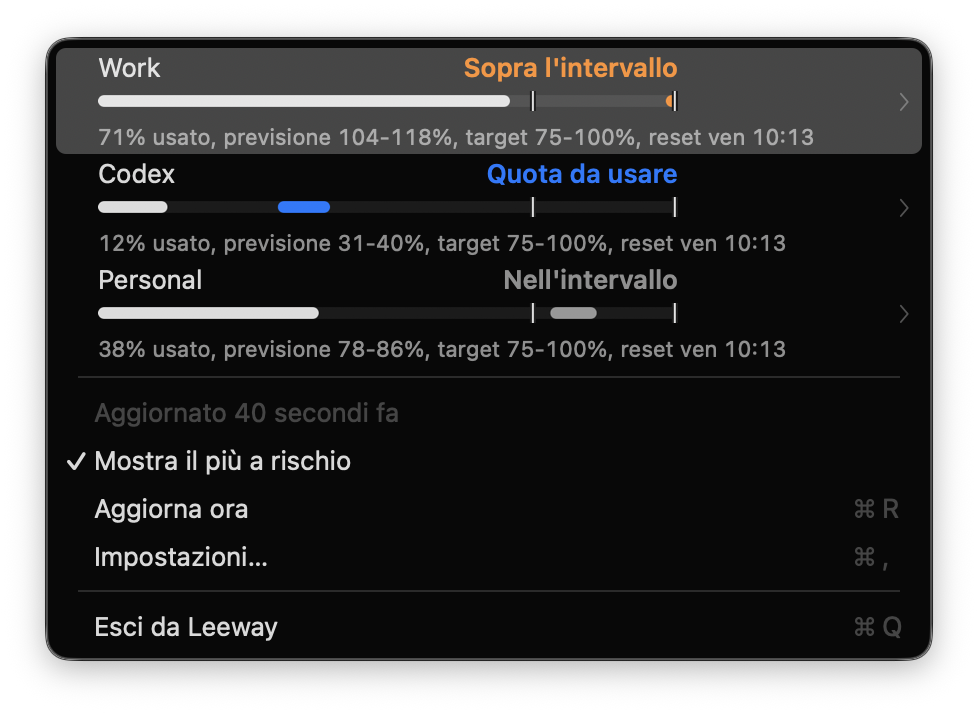
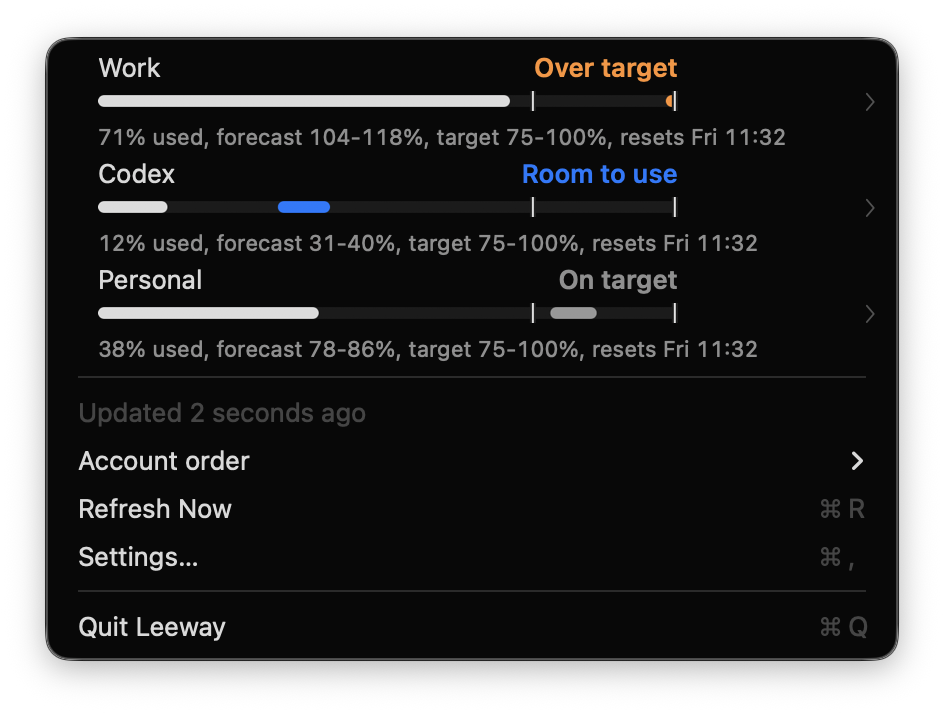
fix: prepare unpublished 0.1.1 build 3 with unified account order
Use the version explicitly requested by the owner, replacing the unpublished 0.1.2 metadata. Update the revised spec, design and preview, and record the native regressions and owner physical-check checklist. No published release or tag is changed.

Changed region(s): [[0.0307, 0.0616, 0.9523, 0.9244], [0.8602, 0.8627, 0.9216, 0.8936], [0.9216, 0.8936, 0.9523, 0.9244]]

diff --git a/docs/design.md b/docs/design.md
@@ -36,7 +36,7 @@ Compact is the default: a 16 pt Phosphor bold vector template icon, with no text
 |-|-|-|
 | Height available | 24 pt | [A1] |
 | Content | `name used% → forecast%`, for example `Work 62% → 84%` | spec 6, [R8] |
-| Account shown | The pinned account, else the most at risk (ranking: red over, amber over, under, on target; ties by higher forecast) | spec 6 |
+| Account shown | The first enabled account in the shared Account order, even without a reading. Risk-first ranking: red over, amber over, under, on target; ties by higher forecast | spec 6 |
 | Forecast shown | The higher of the two projections | title only; verdict compares both bounds |
 | Font | System menu bar font, 13 pt regular, tabular figures | [A3] |
 | Name length | Up to 14 characters, then tail truncation with an ellipsis. Account names are free text, so the title never grows unbounded | [A1] (menus can be truncated when space is tight) |
@@ -49,10 +49,10 @@ The title width must not jitter on refresh: tabular figures keep `62%` and `71%`
 
 ### Structure, top to bottom
 
-1. One row per enabled account, most at risk first, then alphabetical.
+1. One row per enabled account in the shared Account order: risk-first or Manual.
 2. Separator.
 3. Muted disabled line: `Updated 2 min ago` (relative, localised). Shows the age of the newest successful reading across accounts. [R1] [R2]
-4. `Show Most at Risk` with a checkmark while in automatic mode.
+4. `Account order` submenu with the two checked choices `Most at risk first` and `Manual`, synchronized with Settings.
 5. `Refresh Now` with Command-R.
 6. `Settings…` with Command-comma.
 7. Separator.
@@ -65,7 +65,7 @@ Labels use title-style capitalisation, verb first, ellipsis only where more inpu
 | Property | Value | Reference |
 |-|-|-|
 | Menu width | 340 pt minimum; native AppKit sizing accommodates localized facts without truncating the reset | [A2] |
-| Row content inset | AppKit-owned. Detail leading padding is obtained from the native pin item cell titleRect, so it follows the current OS instead of a copied value | [A2] |
+| Row content inset | AppKit-owned account measurements. The hosted detail uses 16 pt leading and 14 pt trailing padding, with no selection-state inset | [A2] |
 | Account row height | Native attributed title height, with an inline usage and forecast meter and a muted reset line below | [M2] [M3] |
 | Standard item height | AppKit-owned standard menu item height | [A2] |
 | Selection highlight | Account rows use semantic non-emphasized selection grey, retaining text and meter colours. Standard commands retain native accent selection | Owner revision 2026-11-03 |
@@ -98,9 +98,9 @@ Hover starts only when the pointer is inside the row. Click, Return or Right Arr
 
 ### Chart submenu
 
-Opened by native menu tracking, click, Return or Right Arrow as an NSMenu submenu beside the account row. Escape returns to the parent menu. The chart and facts are a hosted custom item; Show in Menu Bar is a standard NSMenuItem with the native checkmark and text inset. [A5]
+Opened by native menu tracking, click, Return or Right Arrow as an NSMenu submenu beside the account row. Escape returns to the parent menu. The chart and facts are the only hosted custom item. There is no account-selection command in the detail. [A5]
 
-Width 340 pt. The content leading inset is measured from the native pin command with NSMenuItemCell.titleRect. Content, top to bottom:
+Width 340 pt, leading padding 16 pt and trailing padding 14 pt. Content, top to bottom:
 
 1. **Usage and headline**, a large used percentage followed by a Callout forecast range and the localized weekly period. The headline reads: `Lands between 84% and 97% on Tue 5:00 AM`. Descriptive text above a chart, in the manner of a prediction sentence. [R8] [A5]
 2. **Chart**, native plot with a 170 pt inspection area (below).
@@ -117,7 +117,6 @@ Width 340 pt. The content leading inset is measured from the native pin command 
    Rows with unknown values are omitted, including five-hour usage and recent pace before a qualifying six-hour history. The obsolete Inspect Readings hint and submenu are absent.
 
    This follows the label-left, value-right rows of [R3] and the "x% used, resets" phrasing of [R1] and [R2].
-4. Separator, then `Show in Menu Bar` with a checkmark when this account is pinned. [A2]
 
 ### Chart
 
@@ -159,7 +158,7 @@ Each state is one concrete treatment, not a spinner.
 | **Loading, refresh** | Unchanged | Rows unchanged, the age line reads `Updating`. Refresh Now dimmed. No row flicker |
 | **Stale** (latest reading failed, last good kept) | Unchanged, computed from the last good reading | Status word unchanged. Reset remains in the right column. Only readings older than twice the polling interval gain a compact amber age after the usage numbers, with a full VoiceOver reading-age label. A failed attempt alone does not add age. Menu timestamps update every 30 seconds while open. |
 | **Error, no reading yet** | Symbol only | Status word `No reading`. Facts line carries the reason, one of: `Claude CLI not found`, `Not signed in, run claude to sign in`, `Timed out`, `Unexpected output` |
-| **No accounts** | Symbol only | A single dimmed item `No accounts found`, a muted second line `Sign in with Claude Code or Codex, then choose Refresh Now`, then `Settings…` and `Quit Leeway`. The Refresh Now and Show Most at Risk items stay visible and dimmed [A1] |
+| **No accounts** | Symbol only | A single dimmed item `No accounts found`, a muted second line `Sign in with Claude Code or Codex, then choose Refresh Now`, then `Settings…` and `Quit Leeway`. Refresh Now stays visible and dimmed; Account order remains available [A1] |
 | **All accounts disabled** | Symbol only | Same as No accounts, second line `All accounts are turned off in Settings` |
 
 Enabling an account starts a refresh immediately. If another read is in flight, a follow-up read includes the newly enabled account. When a reading supplies a reason, display it. The current core otherwise reports only staleness, so use the localized instruction to check CLI sign-in and choose Refresh Now. A first reading in progress shows only native Reading usage text, with no sign-in hint. Leeway never logs in for the user.
@@ -179,16 +178,19 @@ The standard macOS Settings window, opened with Command-comma, toolbar tab style
 
 ### Accounts tab
 
-Two separate pickers lead the pane. Menu bar account chooses Most at risk or a
-pinned account, using the same AppPreferences.pinnedID and model.pin action as
-the menu. Changes update both immediately. Menu row order chooses Manual or
-Most at risk first (default), independently of the status-item account.
+One Account order picker leads the pane: Most at risk first (default) or Manual.
+It reads and writes AppPreferences.accountOrderMode, shared with the menu's
+Account order submenu. The status item shows the first enabled account in this
+same order. The owner replaced the previous separate pin/order model on
+2026-11-03. A legacy pin becomes the first Manual ID; the old field is decode-only
+and is never written again. Existing Manual order without a pin is preserved.
 A native SwiftUI List below it shows the current names and supports native
-drag and drop through onMove in Manual mode. The setting and stable account IDs
+drag and drop through onMove in Manual mode. An initially empty, UI-only
+selection binding enables native row selection and drag initiation on macOS. The setting and stable account IDs
 are stored in presentation preferences. Failed saves restore the previous order.
 Unavailable IDs retain their saved positions, and newly discovered accounts
 append. Existing grouped account controls follow the same order below the list.
-This ordering is independent of Show Most at Risk and account pinning in the menu bar.
+There is no separate status-account picker or detail pin command.
 
 One settings group per discovered account (two directories that are the same account appear once, spec 1). The Form scrolls within the native window.
 
@@ -271,7 +273,6 @@ Every status is spoken as words, numbers as numbers, never colour names.
 | Error row | `Work, no reading` | Value: the reason in full, for example `Claude CLI not found` |
 | Age line | `Last updated` | Value: `2 minutes ago` |
 | Chart | `Weekly usage for Work` | Value: the headline sentence. Provides an audio graph descriptor with series Used, Forecast week pace, Forecast last 24 hours, and Target low and Target high as reference lines [A5] [A6] |
-| Show in Menu Bar | `Show in Menu Bar` | Value: `On` or `Off` |
 | Settings name field | `Account name` | Value: the name |
 | Settings target handles | `Target low` / `Target high` | Independently adjustable values in percent; Tab visits low then high, arrow keys step by 5 |
 | Settings reserve | `Reserve account for Work` | Value: `None` or the account name |
@@ -289,7 +290,9 @@ Strings exist in English and Italian. The layout must survive Italian lengths. S
 | On target | Nell'intervallo |
 | Over target | Sopra l'intervallo |
 | Refresh Now | Aggiorna ora |
-| Show Most at Risk | Mostra il più a rischio |
+| Account order | Ordine degli account |
+| Most at risk first | Il più a rischio prima |
+| Manual | Manuale |
 | 62% now, 70-84% at reset, target 75-100% | 62% ora, 70-84% al reset, target 75-100% |
 | Resets Tue 5:00 AM | Reset mar 05:00 |
 | Account name | Nome account |
@@ -302,7 +305,7 @@ Times and dates come from the locale, never from string templates. Percent sign 
 2. **Early blocking.** Over is amber up to 12 hours between exhaustion and reset, red above 12. Without an exhaustion prediction it stays amber, with unknown early hours. Measured weekly usage at 95 does not override the interval verdict; five-hour blocking belongs to advisor policy.
 3. **Native menu drawing.** NSMenuItem attributed titles support multiline text and a meter attachment. AccountMenuRow measures the content with NSMenuItemCell, draws the attributed title and uses a neutral selection background, an explicit owner revision on 2026-11-03. NSMenu retains tracking, type selection, keyboard navigation and submenu placement. Commands use ordinary NSMenuItem drawing. Offscreen tests cover multiline sizing, semantic colours and target tick visibility.
 4. **Hiding the extra.** The HIG asks that people, not the app, decide whether the extra is shown, and suggests a second entry point such as a Dock menu. The spec has no "show in menu bar" setting. Worth deciding before release. [A1]
-5. **Apple menu measurements.** AppKit owns standard command selection geometry. The detail reads its leading inset from the native pin command cell on the current OS; an offscreen probe on this host returned 26 pt. No inferred macOS 14 selection radius or inset is hardcoded.
+5. **Apple menu measurements.** AppKit owns standard command selection geometry. Account rows use native cell measurements, while the chart detail has a single stable content inset with no pin-state column.
 
 ## References
 
@@ -344,7 +347,7 @@ Mobbin (web and iOS, used for information patterns only):
 
 ## Native component exceptions and remaining runtime checks
 
-The domain-specific Swift Charts view and its textual facts are hosted custom content. Apple supplies the marks, axes, cursor rule and audio graph; there is no standard NSMenu item that represents a weekly quota forecast. NSHostingView embeds this content in the native submenu. Its leading inset matches the native pin command. The chart supports VoiceOver adjustment and its native audio graph.
+The domain-specific Swift Charts view and its textual facts are hosted custom content. Apple supplies the marks, axes, cursor rule and audio graph; there is no standard NSMenu item that represents a weekly quota forecast. NSHostingView embeds this content in the native submenu. Its leading inset is stable because the detail has no native command or state column. The chart supports VoiceOver adjustment and its native audio graph.
 
 AppKit owns the status item and standard Settings window because the required native NSMenu hierarchy must coexist with hosted Charts content. SwiftUI grouped Forms and LabeledContent own Settings rows; the native Settings window rejects automatic responder changes until the first user click or key event, and resets its native scroll containers to the top whenever opened. Offscreen tests cover both rules. The only owner-requested custom Settings control is the Target range described below.
 
@@ -392,7 +395,8 @@ attachment directly, with a system chevron symbol for the submenu. A rounded neu
 unemphasizedSelectedContentBackgroundColor blended 12% toward labelColor, with a
 5 pt inset and corner radius. A native tracking area updates drawing on pointer
 entry and exit; it never intercepts clicks or replaces native submenu tracking.
-The view does not intercept clicks; NSMenu owns pointer and keyboard tracking,
+The row participates in native hit testing so pointer events reach its tracking
+area; NSMenu owns command dispatch, keyboard tracking,
 submenus and the menu item's accessibility. Caption, verdict and meter colours
 remain unchanged. Refresh Now, Settings and Quit have no custom view.
 

diff --git a/docs/spec.md b/docs/spec.md
@@ -19,8 +19,8 @@ Developers who run Claude Code and Codex, often several accounts on one Mac (per
 3. **Polling.** Interval configurable (5, 10, 15, 30 minutes; default 15). "Refresh now" in the menu (Cmd-R). A failed reading keeps the last good one and marks it stale with its age. Enabling an account immediately requests a fresh reading, including when another refresh is in progress. Account rows and detail show the safe typed reason for a failed source read.
 4. **Forecast.** Two projections of the weekly percentage at the reset: the week's average pace and the last 24 hours' pace, both carried to the reset, never below what is already used. Shown as a range. History kept locally (SQLite in Application Support) for the chart.
 5. **Target range.** Per-account `target_low` and `target_high` in percent, default 75 and 100. Both lie in 0 to 100, with low < high. The goal is to use the whole week without running out before reset: finishing low wastes quota, forecasting exhaustion early risks being blocked. Compare the reset forecast range with the inclusive target: **under** when forecast high < target low, **on_target** when the ranges overlap, **over** when forecast low > target high. For over, report hours between forecast exhaustion and reset: amber at or below 12 hours, red above 12. Missing forecasts stay explicitly unknown with a neutral verdict.
-6. **Menu bar.** Compact by default, with vector template Phosphor trend-down (under), target (on target), or trend-up (over). Every verdict uses an untinted template, allowing macOS to supply the menu bar foreground. The verdict changes the glyph only. Keep the Compact / Percentages option. Pin an account or show the most at risk. Each menu row states its verdict in words, followed by `62% now, 70-84% at reset, target 75-100%` and the reset time. Account rows highlight in neutral silver/grey in light and dark appearances, preserving readable meter, verdict and caption colours. Native keyboard, submenu and VoiceOver behaviour remain; plain command highlights are unchanged. Every row meter uses the same 0-100% scale with used fill, forecast clipped at 100%, and two outlined ticks at the configured target bounds above the fills. There is no target band or overflow extension. This replaces the previous scaling requirement at the owner's request on 2026-11-03. Native submenu detail contains the weekly chart, forecast range and target bounds; unavailable facts are omitted.
-7. **Settings window.** Accounts (name, enabled, Target range, reserve account for steering, account order), polling interval, language (System default, English, Italiano), launch at login, updates (automatic checks and Check Now). Target uses a two-handle range control, steps of 5 and minimum gap 5, keyboard and VoiceOver accessible. This is the owner-requested native-only control exception. The Settings Menu bar account picker and the menu share AppPreferences.pinnedID: nil means most at risk, otherwise the account is pinned, and changes update both immediately. The separate Menu row order setting is either manual, using native List drag and drop, or Most at risk first (the existing default). Manual order persists across refresh and relaunch; new accounts append. Ordering does not change the existing Show Most at Risk status-item choice. The window starts at 560 by 500 pt, with a 520 by 440 minimum, keeps its user-chosen size across tabs, and scrolls long tab content internally. Return commits an account name and resigns focus; Escape restores the saved name and resigns focus.
+6. **Menu bar.** Compact by default, with vector template Phosphor trend-down (under), target (on target), or trend-up (over). Every verdict uses an untinted template, allowing macOS to supply the menu bar foreground. The verdict changes the glyph only. Keep the Compact / Percentages option. The status item always shows the first enabled account in the shared account order, including a first account without a reading. Each menu row states its verdict in words, followed by `62% now, 70-84% at reset, target 75-100%` and the reset time. Account rows highlight in neutral silver/grey in light and dark appearances, preserving readable meter, verdict and caption colours. Native keyboard, submenu and VoiceOver behaviour remain; plain command highlights are unchanged. Every row meter uses the same 0-100% scale with used fill, forecast clipped at 100%, and two outlined ticks at the configured target bounds above the fills. There is no target band or overflow extension. This replaces the previous scaling requirement at the owner's request on 2026-11-03. Native submenu detail contains the weekly chart, forecast range and target bounds; unavailable facts are omitted.
+7. **Settings window.** Accounts (name, enabled, Target range, reserve account for steering, account order), polling interval, language (System default, English, Italiano), launch at login, updates (automatic checks and Check Now). Target uses a two-handle range control, steps of 5 and minimum gap 5, keyboard and VoiceOver accessible. This is the owner-requested native-only control exception. One Account order setting is shared by Settings and the menu: Most at risk first sorts every account by risk, while Manual uses native List drag and drop. The status item shows the first enabled account in that same order. Changes synchronize immediately. Manual order persists across refresh and relaunch; new accounts append. There is no separate pin setting or detail action. A legacy pinned account silently migrates to the first position of Manual order, preserving the remaining saved order. The window starts at 560 by 500 pt, with a 520 by 440 minimum, keeps its user-chosen size across tabs, and scrolls long tab content internally. Return commits an account name and resigns focus; Escape restores the saved name and resigns focus.
 8. **Agent interface.** CLI `leeway status --json` and `leeway headroom --account <name>`; local HTTP on 127.0.0.1 only (`GET /v1/status`, `POST /v1/advise`), documented JSON schema, versioned. Status and refresh use schema 3. Advice uses schema 1 with nullable `headroom_pct` for under-target accounts.
 9. **Steering, opt-in.** `integrations/` ships ready hooks for Claude Code (PreToolUse on the Agent tool rewrites the subagent model through `updatedInput` or denies; SessionStart injects advice; UserPromptSubmit blocks prompts whose verdict is deny) and Codex (checks `codex exec -m` calls), installed by `leeway integrations install` and removed by `uninstall`. Rules live in `~/.config/leeway/policy.toml`: target ranges, reserve account, model per role, and `over_target` action (warn, switch, block). Under and on-target accounts allow work; under advice reports percentage points needed to reach target low at the current pace. Five-hour blocking remains independent. Advisor down: allow and warn. Only agents with the integration installed are steered.
 10. **Updates.** Sparkle 2, signed appcast on GitHub Releases, automatic by default. Homebrew cask in a Homebrew tap.

diff --git a/docs/plans/2026-11-03-unified-account-order.md b/docs/plans/2026-11-03-unified-account-order.md
@@ -1,0 +1,35 @@
+# Unified account order implementation plan
+
+Source: owner revision, 2026-11-03.
+
+**Goal:** One Account order setting controls every account row and the status item's first visible account.
+**Architecture:** Reuse AppPreferences.accountOrderMode and manualAccountOrder. Remove active pin state, the separate status picker, detail pin action and obsolete inset logic. Both Settings and a native Account order submenu call the same model action.
+**Spec:** docs/spec.md and docs/design.md, revised by this owner request.
+
+## Migration and recovery
+
+A legacy pinned account becomes the first ID in Manual order, preserving the remaining saved order. An existing Manual order without a pin stays Manual; automatic or unset preferences stay risk-first. Encode only the current preference fields. Disabled accounts remain configurable in Settings and omitted from the menu; the status item follows the first menu row, including a row without a reading. Failed saves restore the previous order through the existing save path.
+
+## Tasks
+
+- [x] Replace tests for the superseded independent status selection with failing tests for one shared order, first-row status selection, no-reading first row and enabled-account filtering.
+- [x] Add red/green legacy migration and encode-without-pin tests. Remove pin state/actions, detail command and orphaned inset code; simplify the selection to first enabled account.
+- [x] Replace the separate Settings picker and menu command with the same Account order setting and two checked native submenu choices. Test synchronization in both directions and absence of detail actions.
+- [x] Remove obsolete localized strings, update spec/design/changelog, set app version 0.1.1 build 3 as explicitly requested for the unpublished release.
+- [x] Run core, App and integration suites; build signed Release, quit the old PID, open without mock, capture real menu and Settings in light/dark, restore appearance and leave the real app running.
+- [x] Reproduce the owner-confirmed hover and drag defects using native hit testing and the hosted NSOutlineView selection delegate. Remove the nil hit test and add native List selection, then run regression tests. Owner will perform the final physical check from a 10-second checklist.
+- [x] Final independent review and signed focused commits. No push.
+
+
+## Verification
+
+App: 140 passed. Core: 111 passed on rerun. Integrations: 156 passed. The first concurrent core run hit the existing policyWatch_SeesAtomicSavesAndKeepsLastValidInterval expectation at PollingDeadlineTests.swift:55; no core code or assertion changed, and the rerun passed.
+
+Native regression evidence: the old row returned nil to AppKit hit testing, and the old hosted NSOutlineView denied selection. Both tests failed before the fixes and passed after native hit testing and List selection were restored. Physical hover, submenu tracking and drag confirmation are delegated to the owner, as explicitly requested; they are not recorded as physically verified by the agent.
+
+The unpublished app version is 0.1.1, build 3, per the owner's instruction. No public tag or published release was overwritten. Independent final review found no blocking issue, including immediate persistence of the normalized legacy preferences.
+
+
+Real light/dark captures show all three account readings and the single Account order control. The README preview was regenerated with mock data in an isolated Cocoa argument preference domain; persistent presentation preferences were checked unchanged, then the real build was relaunched. Appearance was restored.
+
+Owner manual check (10 seconds): move the pointer across two menu rows and confirm visible neutral hover plus native submenu opening; in Settings choose Manual and drag the last account to the top, then confirm that account is first in the menu and owns the status item. Changing Account order to risk-first from the menu must update the Settings picker and reorder the rows.

diff --git a/CHANGELOG.md b/CHANGELOG.md
@@ -1,15 +1,13 @@
 # Changelog
 
-## 0.1.2
+## 0.1.1
 
 - Read newly enabled accounts immediately and retain typed source failure messages.
 - Show visible neutral account selection on pointer hover in both appearances.
 - Choose manual account order with native drag and drop, or most at risk first.
-- Share pinned/most-at-risk status selection between the menu and Settings.
-- Keep status selection independent of menu row order.
+- Use one account-order preference in Settings and the menu; the first visible account owns the status item.
+- Migrate former pinned accounts to the first position in Manual order.
 - Keep Settings at a standard size with scrolling inside each tab.
-
-## 0.1.1
 
 - Keep compact menu bar glyphs monochrome using system template rendering.
 - Preserve readable account colours on neutral menu selection.
